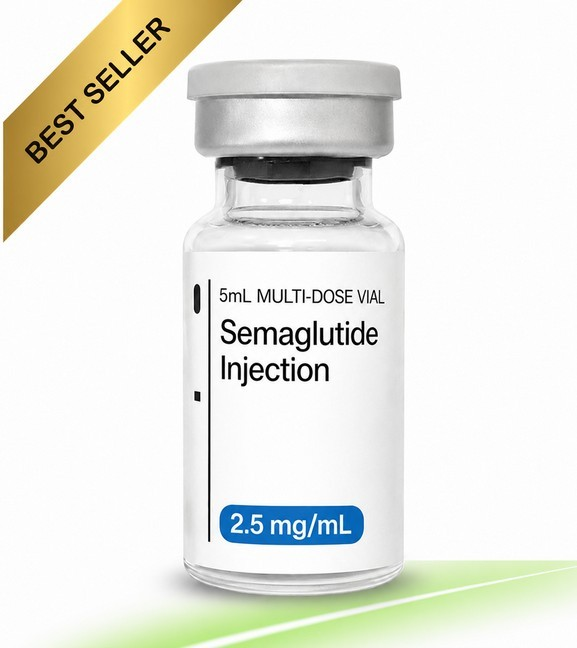
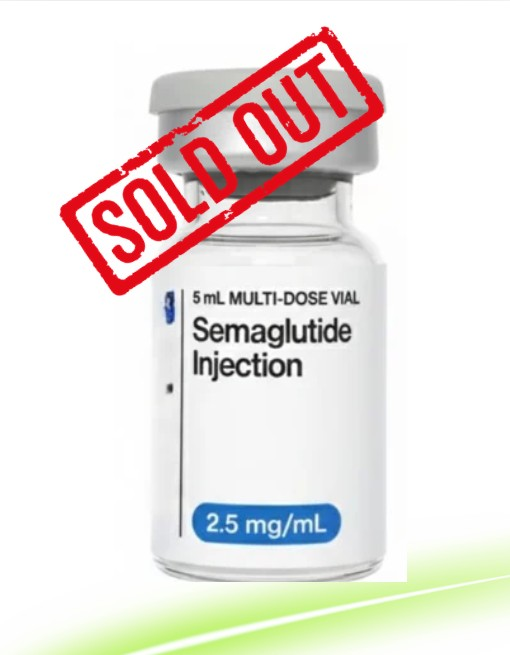
updated new products accesorios y sema vial sold out

Changed region(s): [[0.0, 0.0, 0.7941, 1.0], [0.7941, 0.8333, 1.0, 0.8951]]

diff --git a/app/data/products.ts b/app/data/products.ts
@@ -526,5 +526,70 @@ export const PRODUCTS = [
       "Puede favorecer deseo, bienestar íntimo, conexión emocional y confianza personal.",
   },
 
+   {
+    id: "pachon1",
+    name: "Botella de agua con aislamiento térmico",
+    category: "ACCESORIOS",
+    price: 19,
+    bullets: [
+      "750 ML de capacidad.",
+      "Insulated aluminium.",
+      "25 CM tall",
+    ],
+    pageTitle: "Botella de agua con aislamiento térmico",
+    shortDescription:
+      "Botella de agua con aislamiento de aluminio, mantiente el contenido frío, mide 24 pulgadas, Durable, BPA Free, Leak Proof y facil de lavar.",
+    what:
+      "Ideal para llevar a gimnasio, mantener tu agua fría, ideal para mezclar tu creatina, tambien para shakes de proteína. Portatil y cabe en cualquier mochila.",    
+  },
   
-];
+  {
+  id: "bolsa1",
+  name: "Tote Bag",
+  category: "ACCESORIOS",
+  price: 29,
+  bullets: [
+    "Medidas: 35 × 45 pulgadas",
+    "Asas de aproximadamente 29 pulgadas",
+    "Tejido de polipropileno reciclable y reutilizable",
+    "Ligera, cómoda y fácil de transportar",
+    "Fácil de lavar y secar",
+  ],
+  pageTitle: "Tote Bag AminoPro-MD",
+  shortDescription:
+    "Bolsa reutilizable, cómoda y ligera, ideal para transportar tu equipo de entrenamiento.",
+  what:
+    "Bolsa fabricada con tejido de polipropileno reciclable y reutilizable, diseñada para transportar cómodamente tus artículos personales y equipo de entrenamiento.",
+  use:
+    "Ideal para guardar tu equipo de workout cuando vas al gimnasio. Su diseño ligero y ventilado facilita el transporte y ayuda a mantener organizados tus artículos.",
+  benefits:
+    "Es ligera, cómoda, reutilizable, fácil de lavar y práctica para el gimnasio o el uso diario.",
+},
+
+
+ {
+  id: "estuche1",
+  name: "Peptide Case AminoPro-MD",
+  category: "ACCESORIOS",
+  price: 39,
+  bullets: [
+    "Medidas: H 3 inches x W 3.5 inches x D 3 inches.",
+    "Contiene hasta 6 viales de 3ml",
+    "Tapadera mágnetica",
+    "Ligero y portatil, fácil de limpiar",
+    "Puedes mantenerlo en refrigeración con tus péptidos",
+  ],
+  pageTitle: "Tote Bag AminoPro-MD",
+  shortDescription:
+    "Estuche portátil con cierre magnético, diseñado para almacenar, organizar y proteger hasta 6 viales de péptidos de forma segura. Compacto, ligero y resistente, ideal para usar en casa, el gimnasio o durante tus viajes.",
+  what:
+    "Estuche portátil con cierre magnético, diseñado para almacenar y proteger de forma segura hasta 6 viales de péptidos. Su diseño moderno, compacto y resistente lo hace ideal para el uso diario.",
+  use:
+    "Se utiliza para organizar, transportar y mantener tus viales protegidos en casa, en el gimnasio o durante tus viajes, evitando golpes y desorden.",
+  benefits:
+    "Capacidad para 6 viales de 3ml, cierre magnético para mayor seguridad, diseño compacto, moderno y ligero, protege y organiza tus péptidos, fácil de transportar a cualquier lugar.",
+},
+]
+  
+
+

diff --git a/app/producto/[id]/page.tsx b/app/producto/[id]/page.tsx
@@ -404,7 +404,54 @@ const PRODUCT_INFO: Record<
         
             </ul>
         },
+
+        
+          "pachon1": {
+    title: "Botella de agua con aislamiento térmico",
+    moleculeImage: "/pachon1-2.jpeg",
+    what: "Botella de agua con aislamiento de aluminio, mantiente el contenido frío, mide 24 pulgadas, Durable, BPA Free, Leak Proof y facil de lavar.",
+    use: "Ideal para llevar a gimnasio, mantener tu agua fría, ideal para mezclar tu creatina, tambien para shakes de proteína. Portatil y cabe en cualquier mochila.",
+    benefits:<ul>
+      <li> Insulated aluminum.</li>
+      <li>Keeps COLD drinks.</li>
+      <li>Portable.</li>
+      <li>Ready for on the go.</li>
+      <li>Easy to clean.</li>
+        
+            </ul>
+        },
+
+         "bolsa1": {
+    title: "Tote Bag AminoPro-MD",
+    moleculeImage: "/bolsa1-2.jpeg",
+    what: "Una bolsa suave y resistente diseñada para durar y aguantar tu equipo, como guantes, toallas, pachones, tennis, etc. Facil de lavar y secar.",
+    use: "Ideal para guardar tu equipo de workout cuando vas al gimnasio, mantiene fresco tu equipo y ventilado, suave y ligera de llevar.",
+    benefits:<ul>
+      <li>Medidas: 35 × 45 pulgadas.</li>
+      <li>Asas de aproximadamente 29 pulgadas.</li>
+      <li>Tejido de polipropileno reciclable y reutilizable.</li>
+      <li>Ligera, cómoda y fácil de transportar.</li>
+      <li>Fácil de lavar y secar.</li>
+        
+            </ul>
+        },
+
+        "estuche1": {
+    title: "Estuche AminoPro-MD Magnético para Péptidos.",
+    moleculeImage: "/estuche1-2.jpeg",
+    what: "Estuche portátil con cierre magnético, diseñado para almacenar y proteger de forma segura hasta 6 viales de péptidos. Su diseño moderno, compacto y resistente lo hace ideal para el uso diario.",
+    use: "Se utiliza para organizar, transportar y mantener tus viales protegidos en casa, en el gimnasio o durante tus viajes, evitando golpes y desorden.",
+    benefits:<ul>
+      <li>Medidas: H 3 pulgadas x W 3.5 pulgadas D 3 pulgadas.</li>
+      <li>Capacidad para 6 viales.</li>
+      <li>Cierre magnético para mayor seguridad.</li>
+      <li>Diseño cmpacto, moderno y ligero.</li>
+      <li>Protege y organiza tus péptidos.</li>
+        
+            </ul>
+        },
 };
+
 
 
 
